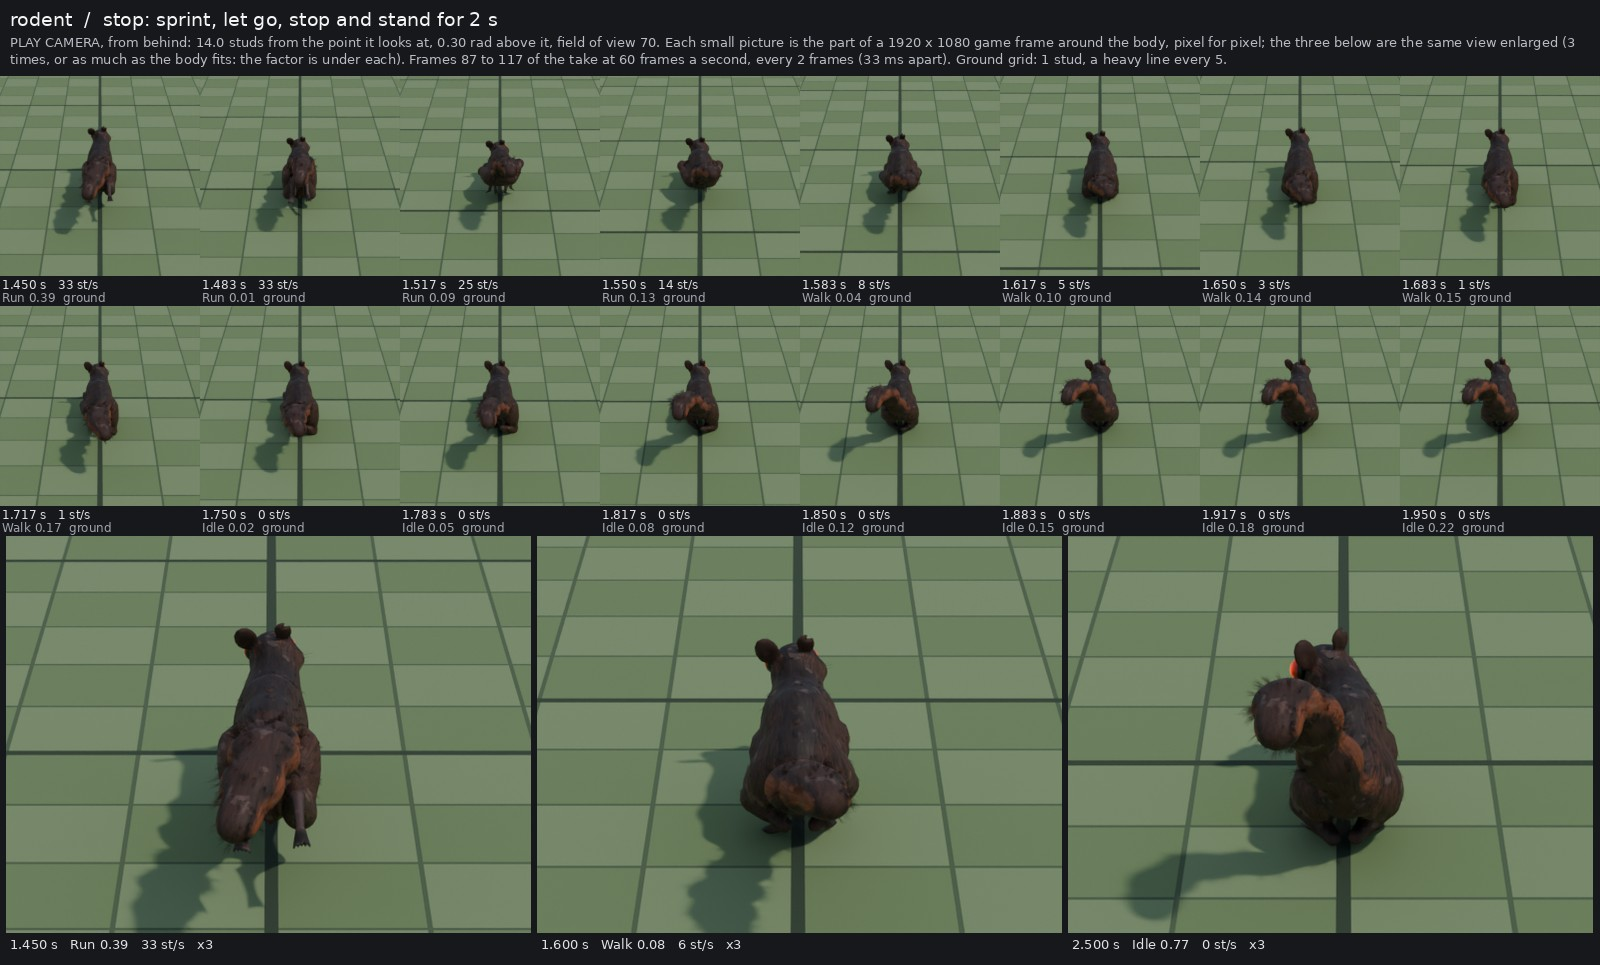
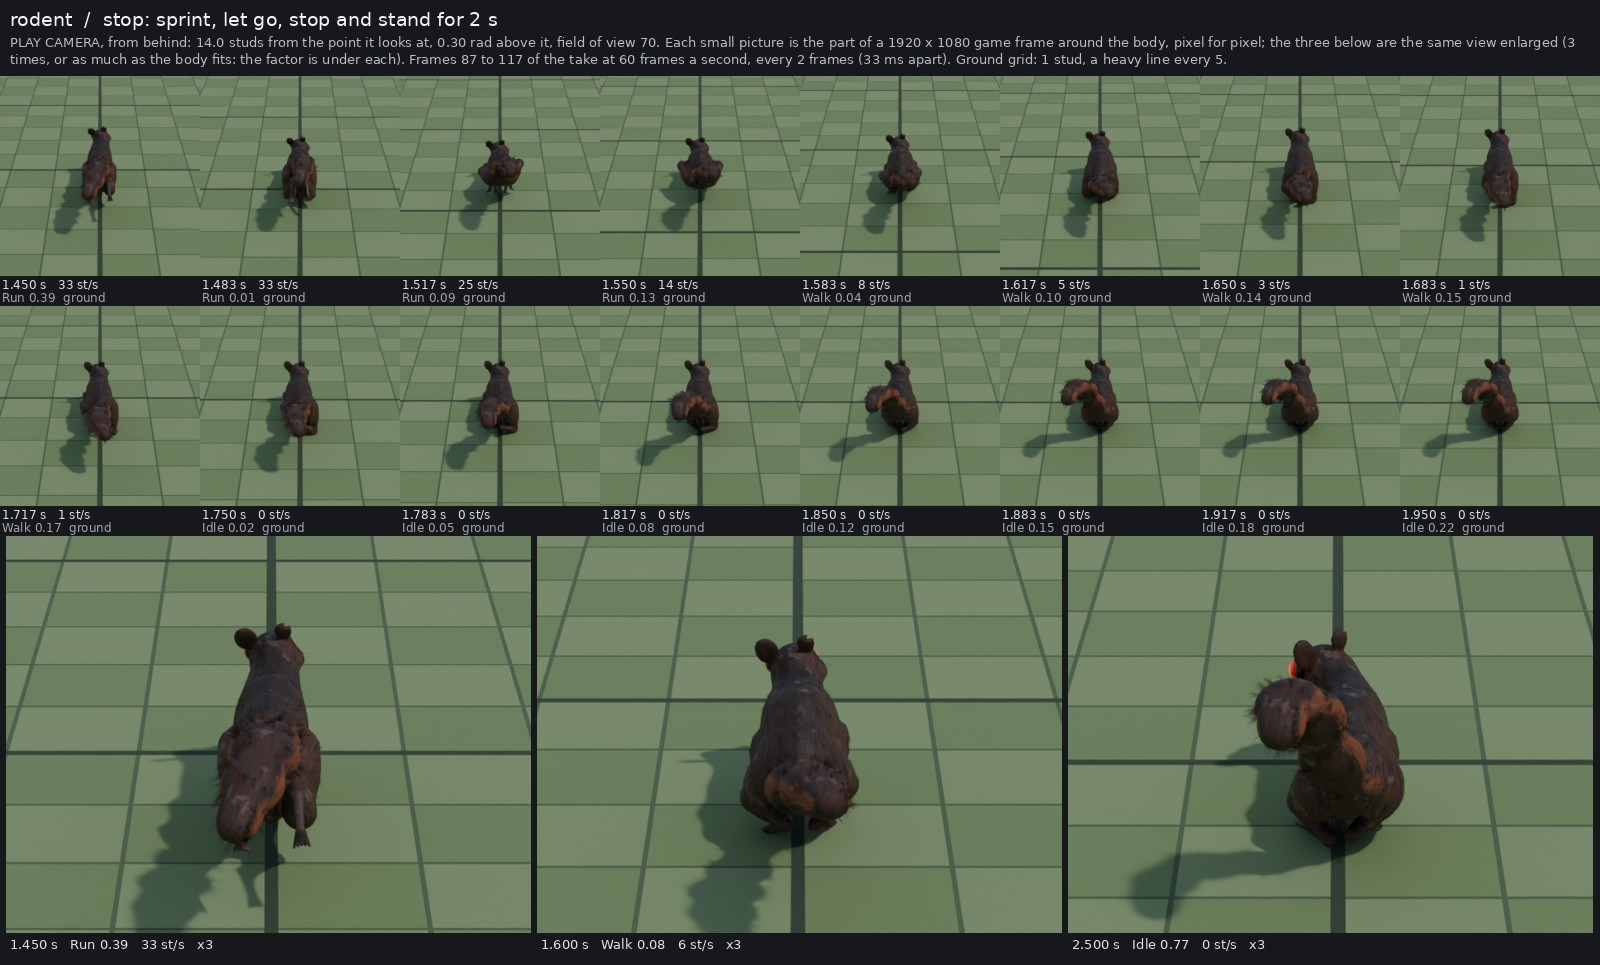
Squirrel Idle: the weight goes over onto one haunch after each look
A tenth of a stud at the hips with the body leaning into it (it was a fiftieth: nothing the play camera
could show), the chest comes up further when it is alert and dips for the sniff. The paws stay where they
are (drift 0.002 studs). The stop strips and clips_metrics.json are redone on it.

Claude-Session: https://claude.ai/code/session_01M7kvU21XVNfCAcdQZ7o6vh

diff --git a/tools/blender/heroes/clips_squirrel.py b/tools/blender/heroes/clips_squirrel.py
@@ -246,9 +246,11 @@ def idle(rig, n=90):
         ear_l = (0.16 * alert, -0.35 * (pulse(p, 0.20, 0.012) + pulse(p, 0.55, 0.012)))
         ear_r = (0.16 * alert, 0.35 * (pulse(p, 0.44, 0.012) + pulse(p, 0.88, 0.012)))
         P = {
-            "body": dict(bob=-0.095 + 0.005 * breath + 0.02 * alert - 0.01 * down, pitch=-0.03 + 0.004 * breath - 0.07 * alert + 0.06 * down,
-                         roll=0.04 * late, sway=-0.03 * late + 0.008 * math.sin(TAU * p), yaw=0.05 * late),
-            "spine": (0.26 + 0.02 * breath - 0.06 * alert, 0.16 * late, 0.08 * late),
+            # the weight goes over onto one haunch after each look (a tenth of a stud at the hips: enough to
+            # be seen from the play camera), the chest comes up when it is alert and dips for the sniff
+            "body": dict(bob=-0.095 + 0.005 * breath + 0.05 * alert - 0.025 * down - 0.02 * late * late, pitch=-0.03 + 0.004 * breath - 0.12 * alert + 0.09 * down,
+                         roll=0.09 * late, sway=-0.10 * late + 0.008 * math.sin(TAU * p), yaw=0.07 * late),
+            "spine": (0.26 + 0.03 * breath - 0.08 * alert, 0.16 * late, 0.08 * late),
             "legs": planted(dx=0.02, dy_back=-0.05),
             "head": (yaw, hp + sniff, 0.10 * late + 0.03 * math.sin(TAU * 3 * p)),
             "tail_dirs": tail_dirs(elev, lat),
